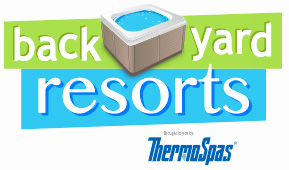
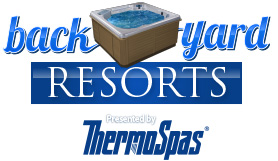
layout changes to LP

diff --git a/assets/stylesheets/front/all.css b/assets/stylesheets/front/all.css
@@ -322,23 +322,21 @@ overflow: hidden;
 	margin: 0 auto;
 	border: 1px solid #d6d6d6;
 	border-top: 1px solid #f7f7f7;
-	padding: 37px 40px 0;
-	max-width: 968px;
-	background: #f7f7f7 url(/assets/images/bg-main.png) repeat-x;
+	padding: 37px 0px 0 0;
+	max-width: 1050px;
+	background: #ffffff url(/assets/images/bg-main.png) repeat-x;
 }
 #content {
 	width: 100%;
 }
 .top-promo {
 	overflow: hidden;
-	width: 100%;
-	border-bottom: 1px solid #d9d6d6;
-	margin-bottom: 10px;
+	padding: 0px 20px;
 }
 .promo-disk {
 	float: left;
-	margin: 0 28px 0 0;
-	padding: 1px 6px 0 2px;
+	margin: 0 26px 0 10px;
+	padding: 1px 0px 10px 10px;
 	width: 326px;
 	background: url(/assets/images/sep-promo-disk.png) no-repeat 100% 0;
 }
@@ -368,11 +366,12 @@ overflow: hidden;
 	margin: 0 0 13px;
 }
 .advantage-block {
-	padding: 0 0 20px 0;
-	margin: 0;
+	padding: 20px 20px 30px 20px;
+	margin: 0 auto;
+	background: url(/assets/images/shadow-box.jpg) no-repeat 100% 0;
 }
 .advantage-block .title {
-	margin: 0 0 20px;
+
 	font-size: 1.25em;
 	line-height: 25px;
 	font-weight: normal;
@@ -389,7 +388,7 @@ overflow: hidden;
 }
 
 .features-holder {
-	width: 100%;
+	padding: 0px 20px;
 }
 .features-holder:after {
 	content: "";
@@ -599,7 +598,7 @@ overflow: hidden;
 #footer {
 	position: relative;
 	overflow: hidden;
-	padding: 20px 0 16px;
+	padding: 20px 20px 16px 20px;
 }
 .partners {
     position: absolute;
@@ -788,6 +787,16 @@ a.call strong {
 		left: 17%;
 		margin: 0;
 	}
+	.main-promo {
+	padding: 25px 80px 0 275px;
+	line-height: 24px;
+	font-size: 1.2em;
+	letter-spacing: -1px;
+	}
+	.main-promo  .title {
+		letter-spacing: 0px;
+		line-height: 24px;
+	}
 	.promo-txt {
 		padding: 13px 0 0;
 		line-height: 15px;
@@ -945,12 +954,15 @@ a.call strong {
 	background: none;
 	}
 	.main-promo {
-		line-height: 26px;
+		line-height: 1.5em;
 		font-size: 24px;
 		letter-spacing: -1px;
 		text-align: left;
+		padding: 25px 75px 0px 0px;
 	}
-
+		.main-promo .title{
+		line-height: 1em;
+}
 	#main {
 		margin: 0 auto;
 		border: 0;
@@ -992,7 +1004,7 @@ a.call strong {
 		line-height: 25px;
 	}
 	.promo-txt p {margin: 0 0 27px;}
-	.advantage-block {padding: 0 0 13px;}
+	.advantage-block {padding: 0 0 13px; background-image:none}
 	.advantage-block h2 {
 		margin: 0 0 19px;
 		line-height: 26px;
@@ -1351,6 +1363,10 @@ a.call strong {
 	.lightbox .area {
 		padding: 10px;
 		width: 212px;
+	}
+		.main-promo {
+		padding: 25px 75px 0px 15px;
+		line-height: 1em;
 	}
 	.main-promo .title {
 	 font-size: 1.25em;

diff --git a/application/views/front/index.php b/application/views/front/index.php
@@ -86,7 +86,7 @@
 					<div class="top-promo">
 						<!-- promo disk -->
 						<div class="promo-disk">
-							<img src="/assets/images/backyard-resorts.png" alt="image description">
+							<img src="/assets/images/backyard-resorts.jpg" alt="image description">
 
 						</div>
 						<!-- promo text -->
@@ -96,25 +96,11 @@
 							<p>Get started right now with a <em><strong>FREE</em></strong> DVD, informational brochure, and complimentary Backyard Resorts Guide packed with ideas to help you create your own personal backyard resort. <em>PLUS</em>, get <em><strong>$1,000 in savings!</strong></em> </p>
 						</div>
 					</div>
-                    <div class="features-holder">
-            <!-- features -->
-            <div class="features">
-              <strong class="title">As seen on:</strong>
-              <ul class="features-list">
-                <li><img src="/assets/images/img05.jpg" alt="image description"></li>
-                <li><img src="/assets/images/img07.jpg" alt="image description"></li>
-                <li><img src="/assets/images/img08.jpg" alt="image description"></li>
-              </ul>
-            </div>
-            <div class="btn-get">
-              <a href="#" class="focusForm">Get your <span>FREE</span> DVD, Brochure, Guide, and $1,000 Savings!</a>
-            </div>
-          </div>
-					<!-- advantage -->
-					<div class="advantage-block">
-						<span class="title">What Real Customers Are Saying</span>
-						<!-- videos -->
-						<div class="boxes">
+           <!-- advantage -->
+          <div class="advantage-block">
+            <span class="title">What Real Customers Are Saying</span>
+            <!-- videos -->
+            <div class="boxes">
               <div class="box">
                   <iframe width="212" height="130" src="//www.youtube.com/embed/dROZDbu8yWg" frameborder="0" allowfullscreen></iframe><br/>
                   Isaac and Isa Matthews
@@ -132,8 +118,21 @@
                   Ethan and Angie Colchiski
               </div>
             </div>
-					</div>
-
+          </div>
+           <div class="features-holder">
+            <!-- features -->
+            <div class="features">
+              <strong class="title">As seen on:</strong>
+              <ul class="features-list">
+                <li><img src="/assets/images/img05.jpg" alt="image description"></li>
+                <li><img src="/assets/images/img07.jpg" alt="image description"></li>
+                <li><img src="/assets/images/img08.jpg" alt="image description"></li>
+              </ul>
+            </div>
+            <div class="btn-get">
+              <a href="#" class="focusForm">Get your <span>FREE</span> DVD, Brochure, Guide, and $1,000 Savings!</a>
+            </div>
+          </div>
 				</section>
 				<!-- footer -->
         <div id="footer">
